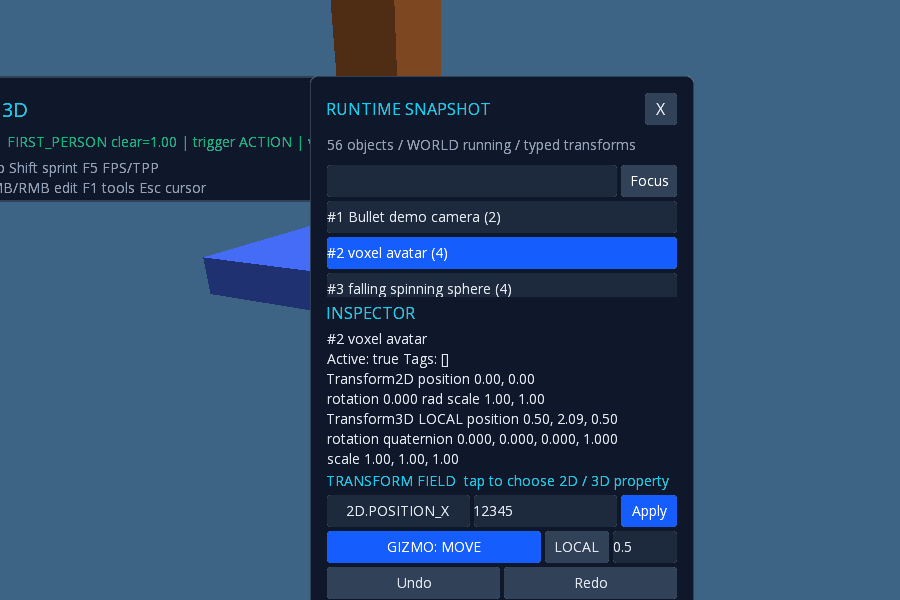
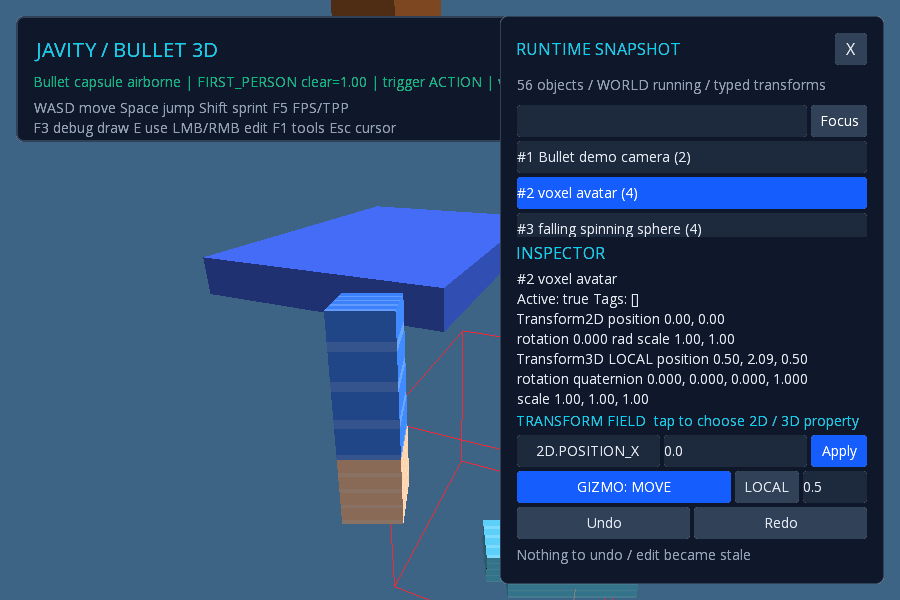
fix: keep runtime tools inside resized Bullet viewport

diff --git a/javity-desktop/src/main/java/org/javity/demo/RuntimeToolsSmokeProbe.java b/javity-desktop/src/main/java/org/javity/demo/RuntimeToolsSmokeProbe.java
@@ -10,6 +10,7 @@ import com.badlogic.gdx.math.Vector2;
 import com.badlogic.gdx.scenes.scene2d.Actor;
 import com.badlogic.gdx.scenes.scene2d.Stage;
 import com.badlogic.gdx.scenes.scene2d.ui.TextField;
+import com.badlogic.gdx.scenes.scene2d.ui.Label;
 import java.util.Arrays;
 import java.util.function.BiConsumer;
 import org.javity.core.Game;
@@ -67,6 +68,19 @@ final class RuntimeToolsSmokeProbe {
     resize.accept(Gdx.graphics.getWidth(), Gdx.graphics.getHeight());
     render.run();
     require(inspector.detailsViewportHeight() >= 120, "Resize clipped inspector details");
+    requireScreenBounds(stage, "runtime-inspector-panel");
+    requireScreenBounds(stage, "runtime-inspector-details-viewport");
+    requireScreenBounds(stage, "runtime-transform-undo");
+    requireScreenBounds(stage, "runtime-transform-redo");
+    requireScreenBounds(stage, "runtime-edit-status");
+    click(stage, input, "runtime-transform-undo");
+    Label editStatus = stage.getRoot().findActor("runtime-edit-status");
+    require(editStatus.getText().toString().equals("Nothing to undo / edit became stale"),
+        "Resized bottom-control click did not invoke Undo");
+    require(Arrays.equals(trs, controlled.getComponent(Transform3D.class).worldMatrix().val),
+        "Resized bottom-control click changed controller-owned TRS");
+    require(revision == revision(world), "Resized bottom-control click edited a voxel");
+    render.run();
     screenshot("runtime-tools-" + name + "-900x600.png");
     Gdx.graphics.setWindowedMode(width, height);
     resize.accept(Gdx.graphics.getWidth(), Gdx.graphics.getHeight());
@@ -102,6 +116,33 @@ final class RuntimeToolsSmokeProbe {
     stage.stageToScreenCoordinates(point);
     require(input.touchDown(Math.round(point.x), Math.round(point.y), 0, Input.Buttons.LEFT), "Panel click not handled " + name);
     input.touchUp(Math.round(point.x), Math.round(point.y), 0, Input.Buttons.LEFT);
+  }
+
+  /** Project every corner through the live Stage viewport, then convert to framebuffer pixels. */
+  private static void requireScreenBounds(Stage stage, String name) {
+    Actor actor = stage.getRoot().findActor(name);
+    require(actor != null, "Missing control " + name);
+    float minX = Float.POSITIVE_INFINITY, minY = Float.POSITIVE_INFINITY;
+    float maxX = Float.NEGATIVE_INFINITY, maxY = Float.NEGATIVE_INFINITY;
+    float scaleX = (float) Gdx.graphics.getBackBufferWidth() / Gdx.graphics.getWidth();
+    float scaleY = (float) Gdx.graphics.getBackBufferHeight() / Gdx.graphics.getHeight();
+    for (int corner = 0; corner < 4; corner++) {
+      Vector2 point = actor.localToStageCoordinates(new Vector2(
+          (corner & 1) == 0 ? 0 : actor.getWidth(),
+          (corner & 2) == 0 ? 0 : actor.getHeight()));
+      stage.stageToScreenCoordinates(point);
+      point.scl(scaleX, scaleY);
+      minX = Math.min(minX, point.x);
+      minY = Math.min(minY, point.y);
+      maxX = Math.max(maxX, point.x);
+      maxY = Math.max(maxY, point.y);
+    }
+    String bounds = name + " framebuffer bounds [" + minX + ", " + minY + ", " + maxX + ", " + maxY + "]";
+    require(Float.isFinite(minX) && Float.isFinite(minY) && Float.isFinite(maxX)
+        && Float.isFinite(maxY) && maxX > minX && maxY > minY
+        && minX >= 0 && minY >= 0 && maxX <= Gdx.graphics.getBackBufferWidth()
+        && maxY <= Gdx.graphics.getBackBufferHeight(), "Resize clipped " + bounds);
+    Gdx.app.log("RuntimeTools", bounds);
   }
 
   private static int[] pixels() {

diff --git a/javity-desktop/src/main/java/org/javity/demo/VoxelSmokeProbe.java b/javity-desktop/src/main/java/org/javity/demo/VoxelSmokeProbe.java
@@ -946,6 +946,7 @@ final class VoxelSmokeProbe {
 
   private void verifyDebugFocusPreservesPlayer() {
     Vector3 before = demo.playerFeet().cpy();
+    Vector3 lookBefore = demo.fpsController().getLookDirection(new Vector3()).cpy();
     var tools = (org.javity.ui.inspector.RuntimeToolsOverlay) field(demo, "tools");
     var game = (org.javity.core.Game) field(demo, "game");
     var player = (org.javity.core.GameObject) field(demo, "cameraObject");
@@ -959,7 +960,8 @@ final class VoxelSmokeProbe {
     require(demo.playerFeet().epsilonEquals(before, .0001f), "Debug focus/movement teleported player feet");
     demo.dispatchKeyDownForSmoke(Input.Keys.F);
     require(demo.playerFeet().epsilonEquals(before, .0001f), "Returning from debug focus teleported player feet");
-    Vector3 lookBefore = demo.fpsController().getLookDirection(new Vector3()).cpy();
+    require(demo.fpsController().getLookDirection(new Vector3()).epsilonEquals(lookBefore, .0001f),
+        "Returning from debug focus changed original controller look");
     // Editing while the debug camera is detached can obstruct the preserved body position.
     BlockPos obstruction = new BlockPos((int) Math.floor(before.x),
         (int) Math.floor(before.y + .5f), (int) Math.floor(before.z));

diff --git a/javity-desktop/src/main/java/org/javity/demo/Physics3DDemo.java b/javity-desktop/src/main/java/org/javity/demo/Physics3DDemo.java
@@ -1102,7 +1102,7 @@ final class Physics3DDemo extends ApplicationAdapter {
       sphereProofCamera.update();
     }
     if (stage != null) {
-      stage.getViewport().update(width, height, false);
+      stage.getViewport().update(width, height, true);
       if (hud != null) {
         hud.setBounds(
             16, Math.max(16, height - 142), Math.min(700, Math.max(340, width - 32)), 126);
